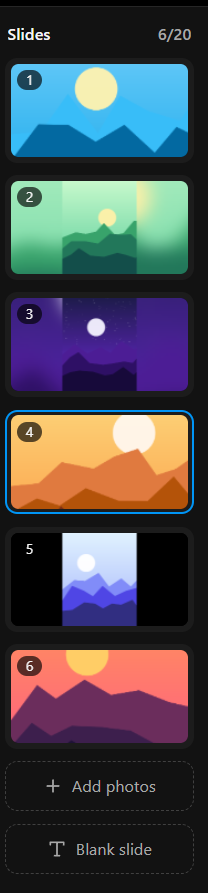
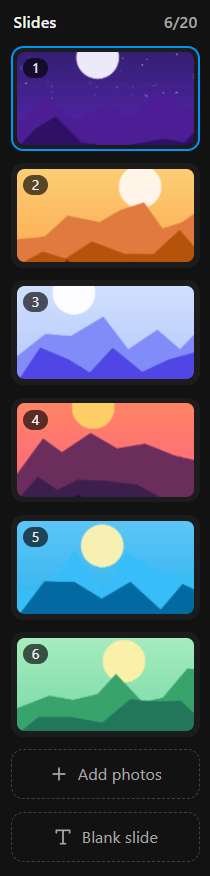
readme FINAL!

diff --git a/README.md b/README.md
@@ -22,10 +22,10 @@ Pick a gradient swatch to give every slide a consistent look.
 
 <img src="docs/screenshots/themes.png" alt="Backgrounds" width="80%">
 
-### Export
-Export all slides in one go, ready to upload.
+### Spread across slides
+Cut one wide photo into slides that join up seamlessly when swiped.
 
-<img src="docs/screenshots/export.png" alt="Export" width="80%">
+<img src="docs/screenshots/spread.png" alt="Spread across slides" width="80%">
 
 ## Getting started
 
